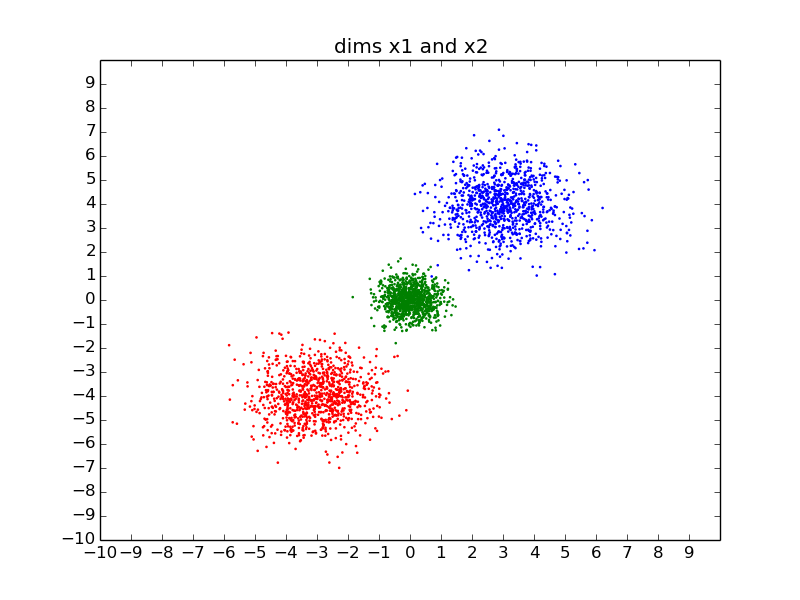
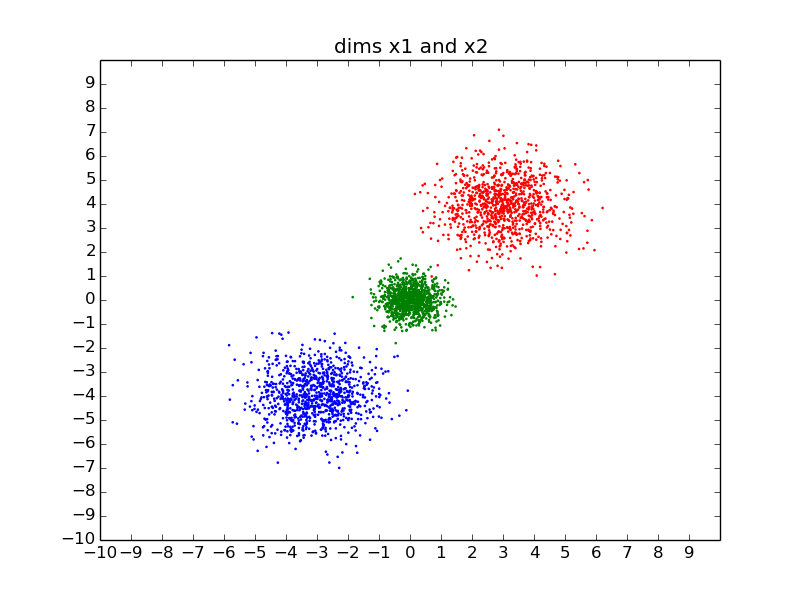
bla

Changed region(s): [[0.5312, 0.24, 0.7188, 0.45], [0.3125, 0.57, 0.5, 0.78]]

diff --git a/gmm_scikit.py b/gmm_scikit.py
@@ -10,20 +10,24 @@ gmm.fit(x_input)
 y_pred =  gmm.predict(x_input)
 
 for idx in range(3):
-	print "mean_{}".format(idx), gmm.means_[idx,:]
+	print "mean_{}".format(idx), gmm.means_[idx]
 	print "sigma_{}".format(idx), gmm.covariances_[idx]
 	print "weight_{}".format(idx), gmm.weights_[idx]
 
+mean_x_axis = gmm.means_[:,0]
+mean_indices = sorted(range(len(mean_x_axis)), key=lambda k: mean_x_axis[k])
+color_list_sort = [color_list[idx] for idx in mean_indices]
 # (x1,x2), (x3,x4), (x4,x5)
 dims_list = [(1,2), (3,4), (4,5)]
 plot_lims = 10
 for (ctr,dims) in enumerate(dims_list):
 	plt.figure()
 	for idx in range(3):
-		plt.scatter(x_input[y_pred==idx,dims[0]-1], x_input[y_pred==idx,dims[1]-1], .8, color=color_list[idx])
+		plt.scatter(x_input[y_pred==idx,dims[0]-1], x_input[y_pred==idx,dims[1]-1], .8, color=color_list_sort[idx])
 		plt.xlim(-plot_lims, plot_lims)
 		plt.ylim(-plot_lims, plot_lims)
 		plt.xticks(range(-plot_lims, plot_lims, 1))
 		plt.yticks(range(-plot_lims, plot_lims, 1))
 		plt.title("dims x{} and x{}".format(dims[0], dims[1]))
 	plt.savefig('plot_{}.png'.format(ctr))
+plt.show()

diff --git a/EM_extra_credit.py b/EM_extra_credit.py
@@ -6,8 +6,7 @@ X = np.loadtxt('X_new.txt')
 no_of_mixtures = 3
 gmm = GaussianMixture(n_components=no_of_mixtures, covariance_type='spherical', init_params = 'random')
 gmm.fit(X)   
-sigma = gmm.covariances_
-
+print sigma[0].shape
 mu_prev = np.random.randn(no_of_mixtures, X.shape[1])
 weights_old = np.random.randn(no_of_mixtures)
 
@@ -17,7 +16,7 @@ error_combined = 1.
 while error_combined > 0.001:
     for i in range(X.shape[0]):
         for j in range(no_of_mixtures):
-            prob_y_given_x[j,i] = weights_old[j] * gaussian.pdf(X[i], mu_prev[j], np.identity(X.shape[1]))
+            prob_y_given_x[j,i] = weights_old[j] * gaussian.pdf(X[i], mu_prev[j], gmm.covariances_[j]*np.identity(X.shape[1]))
         normalization_term = sum(prob_y_given_x[:,i])
         for j in range(no_of_mixtures):
             prob_y_given_x[j,i] = prob_y_given_x[j,i]/normalization_term
@@ -38,5 +37,3 @@ while error_combined > 0.001:
 for idx in range(3):
     print "mean_{}".format(idx), gmm.means_[idx,:]
     print "weight_{}".format(idx), gmm.weights_[idx]
-
-print "error_combined", gmm.means_-mu_curr

diff --git a/EM_vanilla.py b/EM_vanilla.py
@@ -15,7 +15,7 @@ error = 1.
 while error > 0.001:
 	for i in range(X.shape[0]):
 		for j in range(no_of_mixtures):
-			prob_y_given_x[j,i] = weights[j] * gaussian.pdf(X[i], mu_prev[j], np.identity(X.shape[1]))		
+			prob_y_given_x[j,i] = weights[j] * gaussian.pdf(X[i], mu_prev[j], gmm.covariances_[j]*np.identity(X.shape[1]))		
 		normalization_term = sum(prob_y_given_x[:,i])
 		for j in range(no_of_mixtures):
 			prob_y_given_x[j,i] = prob_y_given_x[j,i]/normalization_term
@@ -32,6 +32,3 @@ while error > 0.001:
 for idx in range(3):
 	print "mean_old_{}".format(idx), gmm.means_[idx,:]
 	print "mean_new_{}".format(idx), mu_curr[idx,:]
-
-print "error", gmm.means_-mu_curr
-
